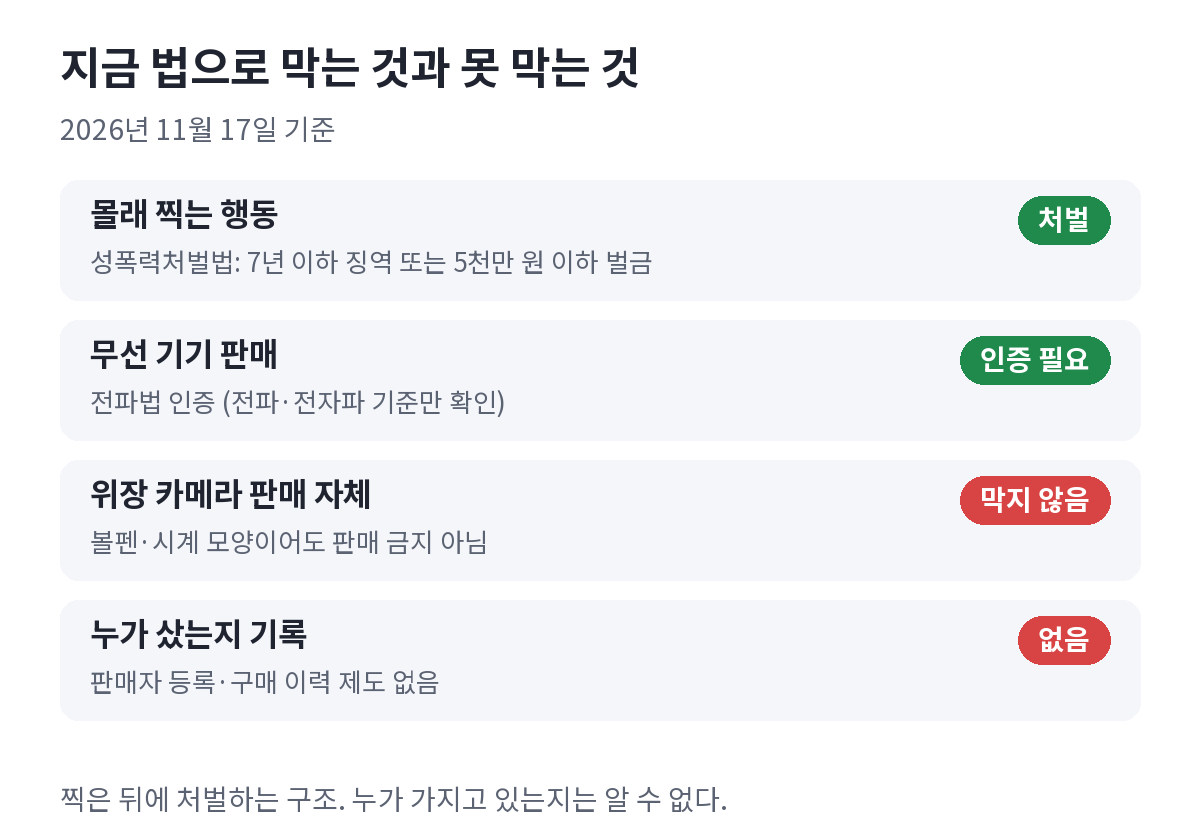
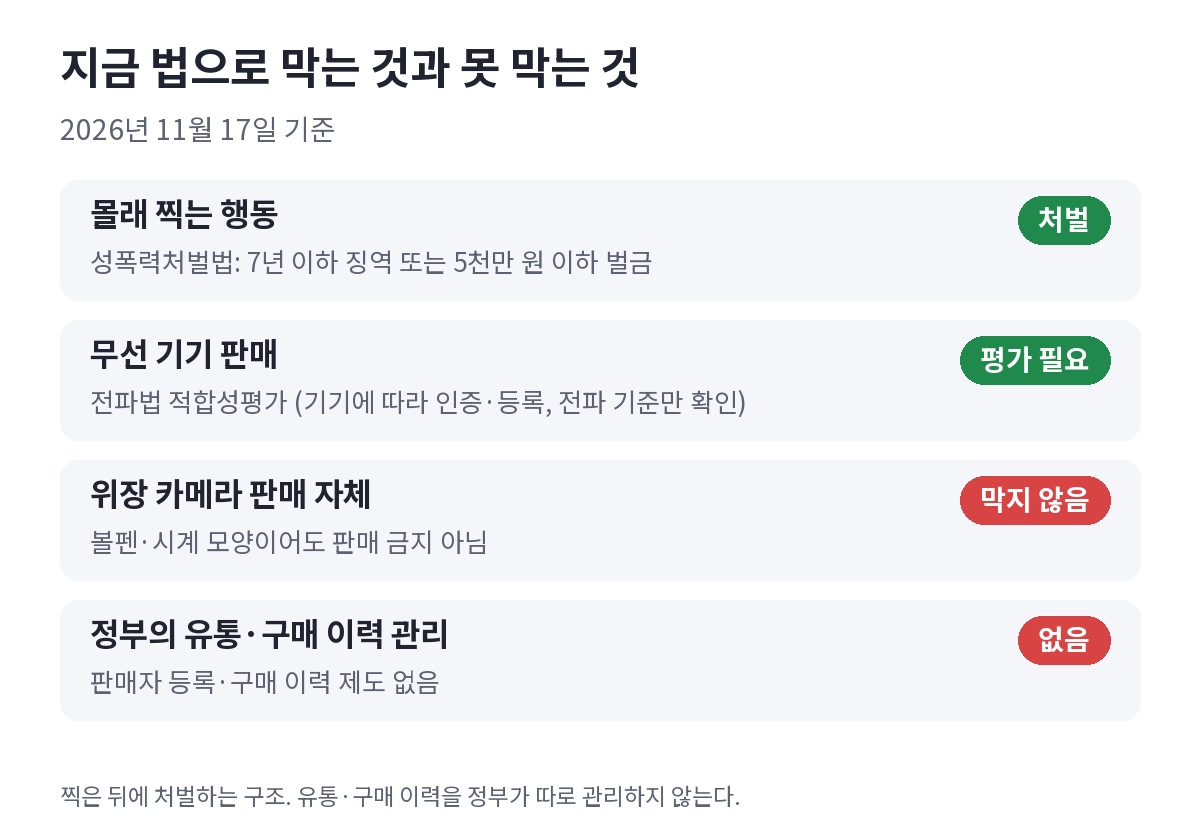
초소형 카메라 글: 법안 연혁 원문 확인(7건), 분량 보강, 외부 검수 반영

diff --git a/문서/네이버-코딩가이드/20261117_초소형카메라-규제/index.html b/문서/네이버-코딩가이드/20261117_초소형카메라-규제/index.html
@@ -4,7 +4,7 @@
 제목: 초소형 카메라, 아무나 사도 될까? 11년째 멈춰 있는 '변형카메라 관리법'
 카테고리: 컴퓨터·IT
 태그: #초소형카메라 #변형카메라 #위장카메라 #변형카메라관리법 #불법촬영 #몰래카메라 #세무사시험 #공중화장실법 #카메라규제
-글자 수: 본문 공백 포함 3,561자 / 공백 제외 2,749자 (빨간 글씨 이미지 표시 제외, 줄바꿈 제외, 2026.11.17 기준. 공통지침 분량 3,500~6,000자)
+글자 수: 본문 공백 포함 5,130자 / 공백 제외 3,950자 (빨간 글씨 이미지 표시 제외, 줄바꿈 제외, 2026.11.17 기준. 사용자 요청 분량 4,500~6,000자)
 발행 방법: 네이버 편집기에는 HTML 붙여넣기 기능이 없으므로, 이 파일을 브라우저로 연 다음
           본문을 드래그해 복사 → 네이버 편집기에 붙여넣는다.
           본문의 빨간 글씨 [[ 이미지: 제목 (파일명) ]] 자리에 해당 파일을 올리고, 빨간 글씨는 지운다.
@@ -15,11 +15,12 @@
           01-타이틀-실사.png          맨 처음. 1:1 타이틀 (ChatGPT 제작, 실사풍 + 제목 글자)
           02-온라인-쇼핑-실사.png       ChatGPT 제작 (실사풍)
           03-지금-법으로는.png         AI 제작 표
-          04-법안-연표.png            AI 제작 연표
-          05-법안이-담으려던-것.png     AI 제작 도식
-          06-어디까지-막을까-만화.png    ChatGPT 제작 (2컷 만화)
-          07-나라별-비교.png           AI 제작 표
-          08-화장실-점검-실사.png       ChatGPT 제작 (실사풍, 실제 장소 아님 → 본문 안내 문장)
+          04-같은-기술-다른-쓰임.png    AI 제작 도식 (분량을 늘리며 추가)
+          05-법안-연표.png            AI 제작 연표
+          06-법안이-담으려던-것.png     AI 제작 도식
+          07-어디까지-막을까-만화.png    ChatGPT 제작 (2컷 만화)
+          08-나라별-비교.png           AI 제작 표
+          09-화장실-점검-실사.png       ChatGPT 제작 (실사풍, 실제 장소 아님 → 본문 안내 문장)
 
 [발행 전에 확인할 부분]
 - 2026.11.17 기준. 원문을 읽고 확인한 기사:
@@ -35,7 +36,22 @@
      안전관리 시설에 불법촬영 탐지 시스템 명시, 공포 후 6개월 뒤 시행, 행안부 '24시간 안전화장실' 3개년 7,500곳 지원)
   · Taipei Times 2026.05.18 https://www.taipeitimes.com/News/taiwan/archives/2026/05/18/2003857548 (대만, 위장 카메라 실명제 검토, 전자상거래 플랫폼과 협의)
   · Sixth Tone 2025.02.11 https://www.sixthtone.com/news/1016642 (중국 국무원 규정 2025.2.10 공포·4.1 시행: 호텔·탈의실·화장실 등 카메라 설치 금지, 업주 정기 점검)
-- 쓰지 않은 것: 판매 가격(확인 못 함), 22대 국회 신규 발의 여부(확인 못 함), 공중화장실법 공포일·정확한 시행일, 전파법 조문 원문.
+- 사용자 요청으로 원문 확인(2026.11.17):
+  · 국회 의안정보시스템 https://likms.assembly.go.kr/bill/main.do 에서 의안명 '변형카메라', 제안대수 19~22대로 검색 → 5건, 모두 임기만료폐기.
+    1916895 장병완의원 등 10인 2015-09-18 / 2008501 장병완의원 등 12인 2017-08-11 / 2015241 진선미의원 등 11인 2018-08-31 /
+    2109152 진선미의원등12인 2021-03-25 / 2112649 윤영찬의원 등 12인 2021-09-24. 22대 국회 같은 이름 법안 없음.
+    외부 검수 반영으로 '위장형 카메라'도 검색 → 2건 추가, 모두 임기만료폐기:
+    2011094 위장형카메라의 관리에 관한 법률안(진선미의원 등 13인) 2017-12-28 / 2117655 위장형 카메라의 관리에 관한 법률안(윤영석의원 등 10인) 2022-09-30.
+    2022 법안 내용(제조·수입·수출·판매·소지자 과기정통부 등록)은 세계일보 2022.10.20 https://www.segye.com/newsView/20221020520446 기준.
+  · 공중화장실법: 국가법령정보센터 연혁상 법률 제21873호, 2026.8.11 공포, 2027.2.12 시행 예정(검색 결과로 확인). 설치 대상은 지자체 조례로 정함(보안뉴스).
+    7,500곳은 행안부 지원 사업 목표.
+  · 전파법: 기기 구분에 따라 적합인증·적합등록 등 적합성평가로 넓혀 씀. 세무사 사건은 본인 진술·수사 중으로, 시험 문제 촬영은 "사안에 따라 업무방해 등 혐의 적용 가능"으로 한정.
+  · 정책브리핑 디지털 성범죄 정책 페이지 https://www.korea.kr/special/policyCurationView.do?newsId=148853543 :
+    '디지털 성범죄 피해방지 종합대책'(2017.9.26, 관계부처 합동), 변형카메라 판매규제부터 피해자 지원까지 22개 개선과제,
+    4대 전략 첫째 '변형카메라 불법촬영 탐지·적발 강화'. 처음 초안에 쓴 "판매자 등록·유통 이력 시스템"은 기사 설명이고
+    정부 원문에서 확인되지 않아 "판매 규제 과제"로 고쳤다(등록제는 2018년 추가 논의라는 보도도 있음).
+- '카메라는 왜 작아졌을까' 단락(스마트폰 카메라 부품 대량 생산)은 일반적으로 알려진 내용으로 썼다.
+- 쓰지 않은 것: 판매 가격(확인 못 함), 공중화장실법 공포일·정확한 시행일, 전파법 조문 원문.
 - 개인 점검 방법(플래시로 렌즈 반사 확인, 지자체 탐지기 대여, 만지지 말고 112 신고)은 일반적으로 알려진 안내 수준으로 썼다.
 - 카메라를 숨기는 방법이나 부정행위 수법은 쓰지 않았다. 찾고 막는 쪽, 제도 이야기만 썼다.
 - 본문에는 언론사 이름을 대는 인용을 쓰지 않았다(AGENTS.md 규칙).
@@ -47,9 +63,9 @@
 
 <p>2015년 9월, 국회에 법안 하나가 올라왔습니다. 이름은 '변형카메라의 관리에 관한 법률안'. 볼펜이나 시계, 단추처럼 다른 물건 모양을 한 카메라를 누가 만들고 누가 샀는지 관리하자는 내용이었습니다.</p>
 
-<p>그 뒤로 비슷한 법안이 몇 번이나 다시 올라왔습니다. 그런데 11년이 지난 지금도 이런 법은 없습니다.</p>
+<p>법안 하나가 11년 동안 국회에 묶여 있던 건 아닙니다. 비슷한 법안이 이름과 발의자를 바꿔 가며 일곱 번이나 올라왔고, 일곱 번 모두 법이 되지 못했습니다. 그래서 11년이 지난 지금도 이런 법은 없습니다.</p>
 
-<p>이 이야기가 다시 나온 건 이번 세무사 시험 사건 때문입니다. 수석 합격자가 초소형 카메라로 문제를 찍어 AI에 보냈다고 털어놓으면서, X(트위터)에는 '초소형 카메라'라는 말이 이틀 넘게 오르내렸습니다. 많은 사람이 같은 걸 궁금해했습니다. 그렇게 작은 카메라를 그냥 살 수 있는 거냐고요.</p>
+<p>이 이야기가 다시 나온 건 이번 세무사 시험 사건 때문입니다. 본인 말로는 수석 합격자가 초소형 카메라로 문제를 찍어 AI에 보냈다고 하고, 지금은 경찰이 수사하고 있습니다. 이 일이 알려지면서 X(트위터)에는 '초소형 카메라'라는 말이 이틀 넘게 오르내렸습니다. 많은 사람이 같은 걸 궁금해했습니다. 그렇게 작은 카메라를 그냥 살 수 있는 거냐고요.</p>
 
 <p>&nbsp;</p>
 <hr style="border:none;border-top:1px solid #cfcfcf;margin:8px 0;">
@@ -63,11 +79,21 @@
 
 <p style="color:#e60000;font-weight:bold;">[[ 이미지: 지금 법으로 막는 것과 못 막는 것 (03-지금-법으로는.png) ]]</p>
 
-<p>먼저 찍는 행동입니다. 다른 사람의 몸을 동의 없이 찍으면 성폭력처벌법으로 7년 이하의 징역이나 5천만 원 이하의 벌금을 받을 수 있습니다. 시험장에서 문제를 찍어 내보내면 업무방해 같은 다른 죄가 됩니다. 결국 일이 벌어진 뒤에 처벌하는 방식입니다.</p>
+<p>먼저 찍는 행동입니다. 다른 사람의 몸을 동의 없이 찍으면 성폭력처벌법으로 7년 이하의 징역이나 5천만 원 이하의 벌금을 받을 수 있습니다. 시험장에서 문제를 찍어 내보낸 경우는 사안에 따라 업무방해 같은 혐의가 적용될 수 있습니다. 어느 쪽이든 일이 벌어진 뒤에 처벌하는 방식입니다.</p>
 
-<p>다음은 전파입니다. 무선으로 영상을 보내는 기기는 팔기 전에 전파법에 따른 인증을 받아야 하고, 인증 없이 팔면 처벌받을 수 있습니다. 다만 이 인증은 다른 기기에 전파 간섭을 일으키지 않는지, 전자파 기준을 지키는지를 보는 제도입니다. 카메라가 볼펜 모양인지, 무엇을 찍으려고 사는지는 따지지 않습니다.</p>
+<p>다음은 전파입니다. 무선으로 영상을 보내는 기기는 팔기 전에 전파법에 따라 기기 종류에 맞는 적합성평가(적합인증이나 적합등록 등)를 거쳐야 하고, 이를 거치지 않고 팔면 처벌받을 수 있습니다. 다만 이 평가는 다른 기기에 전파 간섭을 일으키지 않는지, 전자파 기준을 지키는지를 보는 제도입니다. 카메라가 볼펜 모양인지, 무엇을 찍으려고 사는지는 따지지 않습니다.</p>
 
-<p>그러니까 지금은 누가 샀는지 알 길이 없고, 나쁜 일에 쓰인 뒤에야 법이 움직이는 구조입니다.</p>
+<p>물론 가게마다 판매 기록이나 영수증은 남습니다. 하지만 이런 카메라가 누구에게 얼마나 팔렸는지, 유통과 구매 이력을 정부가 따로 관리하는 제도는 없습니다. 그러니 지금은 나쁜 일에 쓰인 뒤에야 법이 움직이는 구조입니다.</p>
+
+<p>&nbsp;</p>
+<hr style="border:none;border-top:1px solid #cfcfcf;margin:8px 0;">
+<h2 style="font-size:22px;margin:40px 0 12px;">카메라는 왜 이렇게 작아졌을까</h2>
+
+<p>사실 초소형 카메라가 흔해진 건 우리 주머니 속 스마트폰 덕분입니다. 휴대폰에 카메라가 두세 개씩 들어가면서, 손톱만 한 카메라 부품이 엄청나게 많이 만들어졌습니다. 많이 만들수록 값은 내려가고 크기는 더 작아집니다. 예전에는 전문 장비에나 들어가던 작은 렌즈와 이미지 센서를 이제는 누구나 싼값에 구할 수 있게 된 것입니다.</p>
+
+<p>배터리와 무선 통신 부품도 같은 길을 걸었습니다. 작은 카메라가 찍은 영상을 와이파이나 블루투스로 바로 보내는 일이 어렵지 않게 됐습니다. 이 기술 덕분에 블랙박스, 아기 돌봄 카메라, 반려동물 카메라, 초인종 카메라처럼 편리한 물건이 생겼습니다. 같은 기술이 나쁜 손에 들어가면 몰래카메라가 되고, 이번처럼 시험장의 컨닝 도구가 되기도 합니다. 기술 자체는 좋다 나쁘다를 가리지 않는다는 게 이 문제를 어렵게 만드는 출발점이었습니다.</p>
+
+<p style="color:#e60000;font-weight:bold;">[[ 이미지: 같은 기술, 다른 쓰임 (04-같은-기술-다른-쓰임.png) ]]</p>
 
 <p>&nbsp;</p>
 <hr style="border:none;border-top:1px solid #cfcfcf;margin:8px 0;">
@@ -75,17 +101,21 @@
 
 <p>법을 만들려는 시도는 꾸준히 있었습니다. 한 번 정리해 보면 이렇습니다.</p>
 
-<p style="color:#e60000;font-weight:bold;">[[ 이미지: 변형카메라 관리법이 걸어온 길 (04-법안-연표.png) ]]</p>
+<p style="color:#e60000;font-weight:bold;">[[ 이미지: 변형카메라 관리법이 걸어온 길 (05-법안-연표.png) ]]</p>
 
-<p>2015년 첫 법안이 나왔고, 2017년 9월에는 정부도 디지털 성범죄 대책을 발표하면서 변형카메라를 수입하거나 파는 사람을 등록하게 하고, 유통 이력을 관리하는 시스템을 만들겠다고 했습니다. 2018년과 2021년에도 국회의원들이 비슷한 법안을 냈습니다.</p>
+<p>국회 의안정보시스템에서 찾아보면 '변형카메라의 관리에 관한 법률안'이 다섯 건, 이름을 조금 바꾼 '위장형 카메라의 관리에 관한 법률안'이 두 건 나옵니다. 2015년 9월 18일 19대 국회에 처음 올라왔고, 20대 국회에서는 2017년 8월 11일, 2017년 12월 28일, 2018년 8월 31일 세 번, 21대 국회에서는 2021년 3월 25일, 2021년 9월 24일, 2022년 9월 30일 세 번 올라왔습니다. 2022년 법안은 위장형 카메라를 만들거나 팔거나 가지고 있으려는 사람이 과학기술정보통신부에 등록하게 하는 내용이었다고 합니다.</p>
+
+<p>정부도 손을 놓고 있지는 않았습니다. 2017년 9월 26일 여러 부처가 함께 '디지털 성범죄 피해방지 종합대책'을 발표했는데, 변형카메라 판매 규제부터 피해자 지원까지 22개 과제를 담았습니다. 첫 번째 추진 전략이 변형카메라 불법촬영을 찾아내고 적발하는 일이었습니다.</p>
 
 <p>법안들이 담으려던 내용은 대체로 비슷했습니다.</p>
 
-<p style="color:#e60000;font-weight:bold;">[[ 이미지: 법안이 담으려던 것 (05-법안이-담으려던-것.png) ]]</p>
+<p style="color:#e60000;font-weight:bold;">[[ 이미지: 법안이 담으려던 것 (06-법안이-담으려던-것.png) ]]</p>
 
 <p>파는 사람을 등록하게 하고, 누가 샀는지 기록을 남기고, 다른 사람에게 넘기면 신고하게 하고, 이 기록을 정부 시스템에서 관리하자는 것이었습니다. 사는 것 자체를 막자는 게 아니라, 누가 가지고 있는지 알 수 있게 하자는 쪽에 가까웠습니다.</p>
 
-<p>하지만 2021년에 나온 법안들도 상임위원회 심사를 끝내지 못했고, 2024년 5월 29일 21대 국회 임기가 끝나면서 자동으로 폐기됐습니다. 지금 국회에서 새로 논의되고 있는 법안이 있는지는 이번에 확인하지 못했습니다.</p>
+<p>하지만 일곱 건 모두 결과는 같았습니다. 의안정보시스템에 적힌 처리 결과가 전부 '임기만료폐기'입니다. 국회의원 임기 4년 동안 심사를 끝내지 못하면, 임기가 끝나는 날 법안이 자동으로 사라집니다. 21대 국회에 나온 세 법안도 상임위원회 심사를 마치지 못했고, 2024년 5월 29일 임기가 끝나면서 폐기됐습니다.</p>
+
+<p>지금 22대 국회에는 이런 이름의 법안이 아직 없습니다. 이 글을 쓰는 날 의안정보시스템에서 '변형카메라'와 '위장형 카메라'로 19대부터 22대까지 찾아봤을 때 22대 국회에서 낸 법안은 나오지 않았습니다. 다른 이름의 법안에 비슷한 내용이 들어 있을 수는 있지만, 적어도 이 이름으로는 아직 다시 올라오지 않은 셈입니다.</p>
 
 <p>&nbsp;</p>
 <hr style="border:none;border-top:1px solid #cfcfcf;margin:8px 0;">
@@ -95,7 +125,7 @@
 
 <p>가장 큰 이유는 카메라가 원래 나쁜 물건이 아니라는 점입니다. 총이나 칼, 전기충격기는 그 자체로 위험해서 허가를 받게 합니다. 하지만 카메라는 블랙박스, 아이 돌봄용 카메라, 반려동물 카메라처럼 일상에서 쓰는 곳이 훨씬 많습니다. 이런 물건까지 사는 사람을 등록하게 하면 기본권을 지나치게 침해하고, 카메라를 만드는 회사들의 사업도 위축될 수 있다는 걱정이 나왔습니다.</p>
 
-<p style="color:#e60000;font-weight:bold;">[[ 이미지: 어디까지 막아야 할까 2컷 만화 (06-어디까지-막을까-만화.png) ]]</p>
+<p style="color:#e60000;font-weight:bold;">[[ 이미지: 어디까지 막아야 할까 2컷 만화 (07-어디까지-막을까-만화.png) ]]</p>
 
 <p>'변형'의 기준을 정하기도 어렵습니다. 어디까지가 평범한 소형 카메라이고, 어디부터가 위장 카메라일까요. 요즘은 안경이나 단추보다 작은 카메라도 있고, 스마트폰 자체도 카메라입니다. 기준을 넓게 잡으면 거의 모든 기기가 들어가고, 좁게 잡으면 빠져나가는 제품이 생깁니다.</p>
 
@@ -109,7 +139,7 @@
 
 <p>가까운 나라들도 이 문제로 고민하고 있었습니다.</p>
 
-<p style="color:#e60000;font-weight:bold;">[[ 이미지: 중국·대만·한국 비교 (07-나라별-비교.png) ]]</p>
+<p style="color:#e60000;font-weight:bold;">[[ 이미지: 중국·대만·한국 비교 (08-나라별-비교.png) ]]</p>
 
 <p>중국은 '어디에 달면 안 되는지'를 정했습니다. 2025년 4월부터 호텔 객실, 탈의실, 화장실처럼 사생활이 드러나는 곳에 카메라를 다는 것을 금지했고, 숙박업소 같은 곳은 정기적으로 점검하도록 했습니다. 다만 몰래 찍는 용도의 작은 카메라가 여전히 큰 쇼핑몰에서 팔리고 있다는 지적도 함께 나왔습니다.</p>
 
@@ -117,15 +147,17 @@
 
 <p>어느 쪽도 '팔지 마라'로 끝내지는 못했다는 점이 눈에 띄었습니다. 그만큼 쉬운 문제가 아니라는 뜻 같습니다.</p>
 
+<p>우리 사정에 비춰 보면 두 나라의 방식이 모두 낯설지 않습니다. 중국처럼 '찍히면 안 되는 곳'을 지키는 방식은 아래에서 볼 공중화장실법으로 이미 일부 시작됐습니다. 대만처럼 위장 카메라를 살 때 누가 샀는지 확인하는 방식은, 우리 국회가 11년 동안 만들려다 만 변형카메라 관리법과 거의 같은 생각입니다. 두 나라가 앞으로 어떤 결과를 내는지 보면서 우리도 어디까지 따라 할지 정할 수 있을 것 같습니다.</p>
+
 <p>&nbsp;</p>
 <hr style="border:none;border-top:1px solid #cfcfcf;margin:8px 0;">
 <h2 style="font-size:22px;margin:40px 0 12px;">이번에는 달라질까</h2>
 
 <p>분위기는 조금 달라졌습니다. 세무사 사건 뒤인 11월 15일 청와대 긴급회의가 열렸고, 정부가 초소형 카메라 유통 실태를 살펴보기 시작했다고 합니다. 정치권에서도 변형카메라 관리법을 다시 통과시켜야 한다는 목소리가 나왔습니다. 사는 것을 막자는 게 아니라 파는 사람과 사는 사람을 등록하자는 주장입니다.</p>
 
-<p>찍는 곳을 지키는 쪽에서는 이미 움직임이 있었습니다. 2026년 7월 국회는 '공중화장실 등에 관한 법률'을 고쳐서, 지자체가 공중화장실에 갖춰야 할 안전 시설에 불법촬영 탐지 시스템을 넣었습니다. 공포하고 6개월 뒤부터 시행됩니다. 행정안전부도 3년 동안 공중화장실 7,500곳에 탐지 시스템 설치를 돕는 사업을 하고 있다고 합니다.</p>
+<p>찍는 곳을 지키는 쪽에서는 이미 움직임이 있었습니다. 2026년 7월 국회는 '공중화장실 등에 관한 법률'을 고쳐서, 시장·군수·구청장이 갖춰야 할 안전관리 시설에 불법촬영 탐지 시스템을 넣었습니다. 개정법은 2026년 8월 11일 공포됐고 2027년 2월 12일부터 시행됩니다. 다만 모든 공중화장실에 한꺼번에 설치하는 건 아니고, 설치 대상은 지자체가 조례로 정합니다. 행정안전부도 3년 동안 공중화장실 7,500곳을 목표로 탐지 시스템 설치를 지원하는 사업을 하고 있다고 합니다. 이미 7,500곳에 다 설치됐다는 뜻이 아니라 지원하려는 목표라는 점은 구분해서 봐야 합니다.</p>
 
-<p style="color:#e60000;font-weight:bold;">[[ 이미지: 공중화장실 탐지 장비를 점검하는 모습 (08-화장실-점검-실사.png) ]]</p>
+<p style="color:#e60000;font-weight:bold;">[[ 이미지: 공중화장실 탐지 장비를 점검하는 모습 (09-화장실-점검-실사.png) ]]</p>
 
 <p style="font-size:14px;color:#888;">이해를 돕기 위해 만든 이미지이며, 실제 장소 사진이 아닙니다.</p>
 

diff --git a/AGENTS.md b/AGENTS.md
@@ -123,9 +123,12 @@
 - 히스토리 가이드 후보(2026-11-15 제안, 4번 수능의 역사는 작성함): 한지 유네스코 등재(최종 결정 11.30~12.5 정부간위원회) / 김장 문화의 역사(김장철) / 단종과 영월 청령포('왕과 사는 남자' 흥행) / 순국선열의 날.
 
 ## 진행 상황 (2026-11-17 기준)
-- 2026-11-17: `문서/네이버-코딩가이드/20261117_초소형카메라-규제/index.html` 작성("초소형 카메라, 아무나 사도 될까? 11년째 멈춰 있는 '변형카메라 관리법'", 카테고리 컴퓨터·IT, 공백 포함 3,561자). 사용자가 "소형카메라에 대해 쓸 건 있을까?"라고 물어 3개 방향을 제안했고, 2번(초소형·위장 카메라 규제)을 골랐다. X 트렌드 '초소형 카메라' 이틀째 상위. 구성: 2015년 첫 법안으로 시작 → 결론(판매는 막지 않음, 찍는 행동·전파 인증만) → 11년 연표와 법안 내용 → 반대 이유(카메라는 일상 물건, '변형' 기준) + 찬성 + 글쓴이의 실효성 걱정 → 중국·대만 → 이번에는(정부 유통 실태 점검, 공중화장실법 2026.7 개정) + 개인 점검법 → 글쓴이 생각으로 마무리.
+- 2026-11-17: `문서/네이버-코딩가이드/20261117_초소형카메라-규제/index.html` 작성("초소형 카메라, 아무나 사도 될까? 11년째 멈춰 있는 '변형카메라 관리법'", 카테고리 컴퓨터·IT, 원문 확인·보강·검수 반영 후 공백 포함 5,130자, 사용자 요청 분량 4,500~6,000자). 사용자가 "소형카메라에 대해 쓸 건 있을까?"라고 물어 3개 방향을 제안했고, 2번(초소형·위장 카메라 규제)을 골랐다. X 트렌드 '초소형 카메라' 이틀째 상위. 구성: 2015년 첫 법안으로 시작 → 결론(판매는 막지 않음, 찍는 행동·전파 인증만) → 11년 연표와 법안 내용 → 반대 이유(카메라는 일상 물건, '변형' 기준) + 찬성 + 글쓴이의 실효성 걱정 → 중국·대만 → 이번에는(정부 유통 실태 점검, 공중화장실법 2026.7 개정) + 개인 점검법 → 글쓴이 생각으로 마무리.
   - 원문 확인 기사 6건(이코노미톡·매일신문 11/17, 시사위크 2021, 보안뉴스 2026.7, Taipei Times 2026.5, Sixth Tone 2025.2)은 글 맨 위 주석에 있다. 22대 국회 새 법안 여부, 판매 가격, 공중화장실법 시행일은 확인하지 못해 쓰지 않았다. 박지현 전 비대위원장의 페이스북 주장은 이름 없이 "정치권에서도"로 썼다.
-  - AI 제작 03 지금 법으로는·04 법안 연표·05 법안 내용·07 나라별 비교는 `images/`에 있다. ChatGPT 요청 01 타이틀(실사풍)·02 온라인 쇼핑·08 화장실 점검(실사)·06 2컷 만화는 `이미지요청.md`에 대기 중.
+  - 2026-11-17 사용자가 "연표 문단은 무엇을 참조했나"고 물어, 국회 의안정보시스템(의안명 '변형카메라', 19~22대)과 정책브리핑 원문으로 확인해 고쳤다: 법안 5건(2015.9.18·2017.8.11·2018.8.31·2021.3.25·2021.9.24, 모두 임기만료폐기, 22대엔 같은 이름 법안 없음). 2017.9.26 정부 종합대책은 '변형카메라 판매규제' 과제를 담았다는 것까지만 공식 확인되어, 기사에만 있던 "판매자 등록·유통 이력 시스템" 표현은 뺐다. **법안·정책 연혁은 기사가 아니라 의안정보시스템·정부 원문으로 날짜를 확인한다.**
+  - 같은 날 외부 검수 반영: '위장형 카메라의 관리에 관한 법률안' 2건(2017.12.28 진선미, 2022.9.30 윤영석)을 의안정보시스템에서 찾아 연혁을 7건으로 고침(이전엔 '변형카메라'로만 검색해 빠졌다 → **법안은 비슷한 다른 이름으로도 검색한다**). "법안 하나가 11년 계류된 게 아니라 일곱 건이 차례로 폐기"라고 밝힘. 공중화장실법은 2026.8.11 공포·2027.2.12 시행, 설치 대상은 조례로, 7,500곳은 지원 목표로. "누가 샀는지 알 길이 없다" → "정부가 유통·구매 이력을 따로 관리하는 제도는 없다". 전파법은 '적합성평가(적합인증·적합등록 등)'. 세무사 사건은 본인 진술·수사 중, 업무방해는 "사안에 따라 적용될 수 있다". 이미지 03·05·08도 고쳤다.
+  - 같은 날 사용자 요청으로 분량을 4,500~6,000자로 늘리며 '카메라는 왜 이렇게 작아졌을까' 단락과 04 같은 기술 다른 쓰임(AI 도식)을 넣고, 이미지 번호를 다시 매겼다.
+  - AI 제작 03 지금 법으로는·04 같은 기술 다른 쓰임·05 법안 연표·06 법안 내용·08 나라별 비교는 `images/`에 있다. ChatGPT 요청 01 타이틀(실사풍)·02 온라인 쇼핑·09 화장실 점검(실사)·07 2컷 만화는 `이미지요청.md`에 대기 중.
   - 카메라를 숨기는 방법·부정행위 수법은 쓰지 않았고, 이미지 요청에도 몰래 설치·촬영 장면과 렌즈 위치 안내를 넣지 말라고 적었다.
 - 2026-11-17: `문서/네이버-코딩가이드/20261117_비만약-휴대반입/index.html` 작성("일본에서 처방받은 마운자로, 이제 들고 와도 될까? 11월 12일부터 바뀐 반입 기준", 카테고리 생활 정보, 항공권 추가·검수 반영 후 공백 포함 4,659자). 제목은 처음 '스시자로' 중심이었는데, 사용자가 "마운자로와 일본이 들어가야 검색이 잘 된다"고 해서 두 단어를 제목 앞에 넣었다(**검색될 핵심 단어는 제목 앞부분에 넣는다**). 사용자가 "일본에서 비만약 이제 들여올 수 있다는데"라며 소재를 정하고, 제안한 3개 방향 중 1번(바뀐 반입 규칙 정리)을 골랐다. 구성: '스시자로' 도입 → 한 줄 요약(6병·3개월, 자가 치료용 의약품 전체) → 그동안 막힌 이유 → 해당되는 세 가지 경우 → Q&A(h3 5개: 몇 개까지, 다른 약, 서류, 직구, 기내 보관) → 가격(어림 비교, 숨은 비용) → 식약처 GLP-1 안전성 서한(NAION) → 글쓴이 생각. 최근 글과 다르게 Q&A 형식을 썼다.
   - **공식 원문 확인**: 식약처 보도자료 게시판에서 2026.11.11 부처합동 보도자료와 GLP-1 안전조치 보도참고자료 PDF를 받아 읽었다(웹 가져오기로는 PDF 글자가 안 읽혀, 받은 파일을 임시 폴더에 .pdf로 복사해 Read로 열었다). 공식 자료에 없는 것(직구·마약류 제외, 가격, 2024.10 배경)은 "알려졌다/~라고 합니다"로 썼다.
@@ -162,7 +165,7 @@
   - 2026-11-16 검수 반영: IDC·카운터포인트 원문으로 시장 정의를 다시 확인했다. IDC 35.3%는 XR 헤드셋+안경 전체의 2분기 증가율(앞 분기 130.2%에서 둔화)이라 "모두 빠르게 크고 있다"를 고쳤다. 스마트폰 비교는 "기준이 다른 어림 비교"로 밝혔다. 삼성 정보는 "출시 예정·보도 기준"으로 바꾸고 **발행 직전 삼성 뉴스룸에서 공식 가격·출시일을 확인**하도록 발행 메모에 적었다(11/16에는 뉴스룸 접속 실패). 이미지 03·05·07도 고쳤다.
   - **시장 통계 글에 적용할 기준(위 검수에서 배운 점)**: 기관별 숫자를 나란히 쓸 때는 각 기관이 무엇을(시장 정의) 어느 기간에 셌는지 본문과 표에 함께 적는다. 다른 기준의 숫자를 비교하면 "어림 비교"라고 밝힌다. 한 방향의 결론("모두 성장")을 내기 전에 반대 신호가 있는지 원문을 확인한다. 출시 전 제품 정보는 "보도 기준·예정"으로 쓰고 발행 직전에 공식 발표와 대조한다.
   - 이미지 9장이 모두 `images/`에 있다: AI 제작 03·05·07·09(Noto Sans KR), ChatGPT 제작 01 타이틀(3D)·02 거리·04 안경 매장·06 카메라 표시등·08 메모리 칩(실사). 대기 중인 이미지 요청 없음. 남은 일: 발행 직전 삼성 공식 정보 확인, 사용자의 티스토리 발행.
-- 글 분량(AI 해석, 2026-11-16): 사용자가 안드로이드 인증 글과 실적과 주가 글을 연달아 4,000~5,000자로 늘려 달라고 했다. 그래서 AI 안경 시장 글은 처음부터 4,000자 이상으로 썼다. 티스토리 정보 글은 4,000~5,000자를 기본으로 잡되, 사용자가 다른 분량을 말하면 따른다. 2026-11-16 네이버 AI 컨닝 글은 사용자가 5,000~7,000자를 요청했다.
+- 글 분량(AI 해석, 2026-11-16): 사용자가 안드로이드 인증 글과 실적과 주가 글을 연달아 4,000~5,000자로 늘려 달라고 했다. 그래서 AI 안경 시장 글은 처음부터 4,000자 이상으로 썼다. 티스토리 정보 글은 4,000~5,000자를 기본으로 잡되, 사용자가 다른 분량을 말하면 따른다. 2026-11-16 네이버 AI 컨닝 글은 사용자가 5,000~7,000자를 요청했다. 2026-11-17 초소형 카메라 글은 4,500~6,000자를 요청했다(공통지침 기본은 3,500~6,000자. 사용자가 최근 더 긴 글을 원하는 흐름이니, 다음 글을 쓰기 전에 분량을 한 번 확인하면 좋다).
 - 2026-11-16: 이코노미 가이드 두 번째 글 `문서/티스토리-이코노미가이드/20261116_실적과-주가/index.html` 작성("실적은 좋았는데 주가는 떨어졌다, '시장 예상치'를 알면 보이는 것"). 엔비디아 실적 발표(미국 11/17, 한국 11/18 아침) 뉴스에서 고른 주제. 2024년 8월 엔비디아 사례(예상보다 많은 매출, 작은 초과 폭, 가이던스가 최고 기대에 못 미침, 블랙웰 설계 변경, 차익실현) → 컨센서스·가이던스·선반영 → 이번 발표에서 볼 것. **11월 17일 발행 권장**, 발표 뒤에 올리면 "이번 주 발표" 단락을 결과에 맞게 고친다.
   - 젠슨 황 사임 경위(개인 문제 보도)는 쓰지 않았다. 시간외 하락 폭(보도마다 3.5~7%)과 이번 매출 예상치(1,080억~1,093억)는 출처가 엇갈려 숫자 대신 표현으로 썼다.
   - 사용자 요청으로 4,000~5,000자로 늘렸다. 검수 반영 후 공백 포함 4,148자: "이번 주·이번 달"을 날짜로 바꿈, 근거 약한 코스피 사례 삭제, "흔들림을 줄이려고 장 전후 발표"를 "관행"으로 완화. (기존 규칙 "상대 시간 표현 대신 날짜"를 이 글 초안에서 놓쳤다. 뉴스 일정이 걸린 글은 특히 지킨다.) 매출·EPS 구분, 자사주 매입, PER과 기대, 실적 발표가 한국 시간으로 전해지는 흐름, 데이터센터 매출을 더했다.

diff --git a/이미지요청.md b/이미지요청.md
@@ -20,13 +20,13 @@
 - 종류: 실사풍 사진, 가로 3:2
 - 내용: 노트북 화면에 쇼핑몰 상품 목록처럼 보이는 화면(작은 전자기기 사진들이 격자로 흐리게 보임, 글자는 읽을 수 없게)과 키보드 위의 손. 화면 속 제품은 무엇인지 알아볼 수 없을 만큼 흐리게.
 
-### 3. `06-어디까지-막을까-만화.png`
+### 3. `07-어디까지-막을까-만화.png`
 - 종류: 2컷 만화(깔끔한 웹툰풍), 가로 2컷
 - 1컷: 아기방에 놓인 작은 홈카메라를 보며 안심하는 부모(얼굴은 단순하게). 말풍선(정확히): "아이 보려고 산 건데 등록까지?"
 - 2컷: 정장 차림의 사람이 서류를 든 채 고민하는 모습. 말풍선(정확히): "그래도 누가 샀는지는 알아야죠"
 - 그 밖의 글자는 넣지 않는다.
 
-### 4. `08-화장실-점검-실사.png`
+### 4. `09-화장실-점검-실사.png`
 - 종류: 실사풍 사진, 가로 3:2
 - 내용: 깨끗한 공중화장실 입구 복도에서 작업복 차림의 점검 요원이 손에 든 탐지 장비로 벽을 살피는 장면. 얼굴은 나오지 않게 손과 장비, 뒷모습 위주. 표지판 글자는 흐리게.
 - 본문에 "실제 장소 사진이 아닙니다" 안내가 들어간다.
